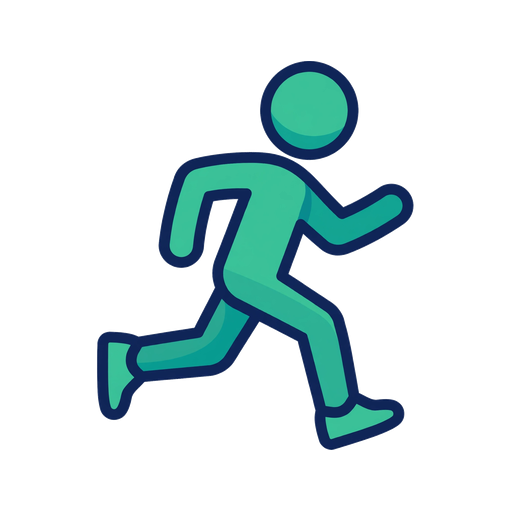
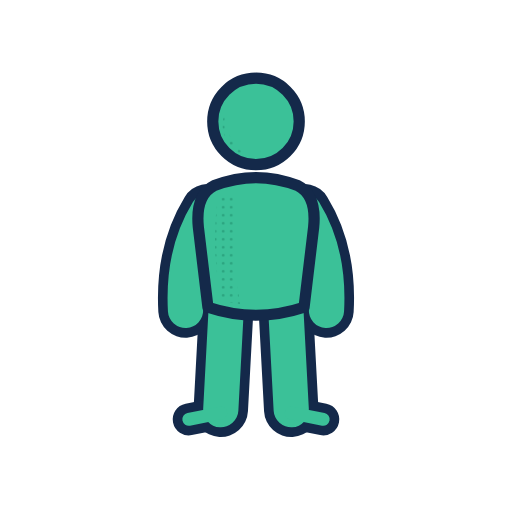
Standing DIM figure; not-affiliated disclaimer
Claude-Session: https://claude.ai/code/session_019tpDYV7mfeQBWYpgEdgZBX

Changed region(s): [[0.1875, 0.0938, 0.8125, 0.875]]

diff --git a/index.html b/index.html
@@ -8,12 +8,12 @@
 <meta name="theme-color" content="#5b2a86">
 <link rel="icon" href="img/logo.png" type="image/png">
 <link rel="apple-touch-icon" href="img/apple-touch-icon-d1794979108.png">
-<link rel="manifest" href="manifest.webmanifest?v=1795034200">
+<link rel="manifest" href="manifest.webmanifest?v=1795034779">
 <meta name="apple-mobile-web-app-capable" content="yes">
 <meta name="mobile-web-app-capable" content="yes">
 <meta name="apple-mobile-web-app-title" content="DialedUp">
 <meta name="apple-mobile-web-app-status-bar-style" content="black-translucent">
-<link rel="stylesheet" href="css/style.css?v=1795034200">
+<link rel="stylesheet" href="css/style.css?v=1795034779">
 </head>
 <body>
   <!-- Sign-on screen -->
@@ -47,7 +47,8 @@
       </form>
       <button type="button" class="btn small-btn install-btn" style="margin-top:10px">📲 Add DialedUp to your Home Screen</button>
       <label class="check mute-toggle"><input id="mute" type="checkbox"> Mute sounds</label>
-      <p class="small muted" style="margin:6px 0 0">build 1118.2036</p>
+      <p class="small muted disclaimer">DialedUp is an independent, fan-made throwback. Not affiliated with, endorsed by, or connected to AOL, AIM, Yahoo or Bending Spoons. All trademarks belong to their owners.</p>
+      <p class="small muted" style="margin:6px 0 0">build 1118.2046</p>
     </div>
   </main>
 
@@ -122,6 +123,6 @@
     </footer>
   </div>
 
-  <script type="module" src="js/main.js?v=1795034200"></script>
+  <script type="module" src="js/main.js?v=1795034779"></script>
 </body>
 </html>

diff --git a/dim.html b/dim.html
@@ -13,7 +13,7 @@
 <meta name="mobile-web-app-capable" content="yes">
 <meta name="apple-mobile-web-app-title" content="DIM">
 <meta name="apple-mobile-web-app-status-bar-style" content="black-translucent">
-<link rel="stylesheet" href="css/style.css?v=1795034200">
+<link rel="stylesheet" href="css/style.css?v=1795034779">
 </head>
 <body class="dim">
   <!-- Sign-on -->
@@ -27,6 +27,7 @@
         <p id="signon-error" class="error" role="alert"></p>
         <div class="row"><a href="index.html" class="small">New? Get a screen name on DialedUp</a><button class="btn primary">Sign On</button></div>
       </form>
+      <p class="small muted disclaimer">DialedUp is an independent, fan-made throwback. Not affiliated with, endorsed by, or connected to AOL, AIM, Yahoo or Bending Spoons. All trademarks belong to their owners.</p>
     </div>
   </main>
 
@@ -41,6 +42,6 @@
     </footer>
   </div>
 
-  <script type="module" src="js/dim.js?v=1795034200"></script>
+  <script type="module" src="js/dim.js?v=1795034779"></script>
 </body>
 </html>

diff --git a/js/portal.js b/js/portal.js
@@ -303,8 +303,8 @@ function openAbout() {
       body.innerHTML = `<div style="text-align:center"><img src="img/wordmark.png" width="170" alt="DialedUp">
         <h2 class="brand" style="font-size:26px">Dialed<span>Up</span></h2>
         <p class="tagline">The online service that never logged off.</p>
-        <p class="small">Version 26.0 (build 1118.2036) · Still connecting since '96.</p>
-        <p class="small muted">A fan-made throwback. Not affiliated with any real online service.</p></div>`;
+        <p class="small">Version 26.0 (build 1118.2046) · Still connecting since '96.</p>
+        <p class="small muted">DialedUp is an independent, fan-made throwback. Not affiliated with, endorsed by, or connected to AOL, AIM, Yahoo or Bending Spoons. All trademarks belong to their owners.</p></div>`;
     },
   });
 }

diff --git a/css/style.css b/css/style.css
@@ -819,3 +819,4 @@ ol.lb li.me { background: #fff6c8; font-weight: bold; }
 .altcaps { display: inline-flex !important; align-items: center; gap: 3px; font-size: 11px !important; font-weight: normal !important; margin: 2px 0 !important; color: inherit; opacity: .85; cursor: pointer; white-space: nowrap; width: auto !important; }
 .altcaps input { width: auto !important; margin: 0 !important; }
 .fmt .altcaps { margin-left: 4px !important; }
+.disclaimer { font-size: 10px !important; line-height: 1.3; margin: 8px 0 0; opacity: .75; }

diff --git a/stats.html b/stats.html
@@ -60,6 +60,6 @@
       <p class="err" id="ge"></p><button>Sign On</button></form>
   </div>
   <main id="dash" hidden></main>
-  <script type="module" src="js/stats.js?v=1795034200"></script>
+  <script type="module" src="js/stats.js?v=1795034779"></script>
 </body>
 </html>
